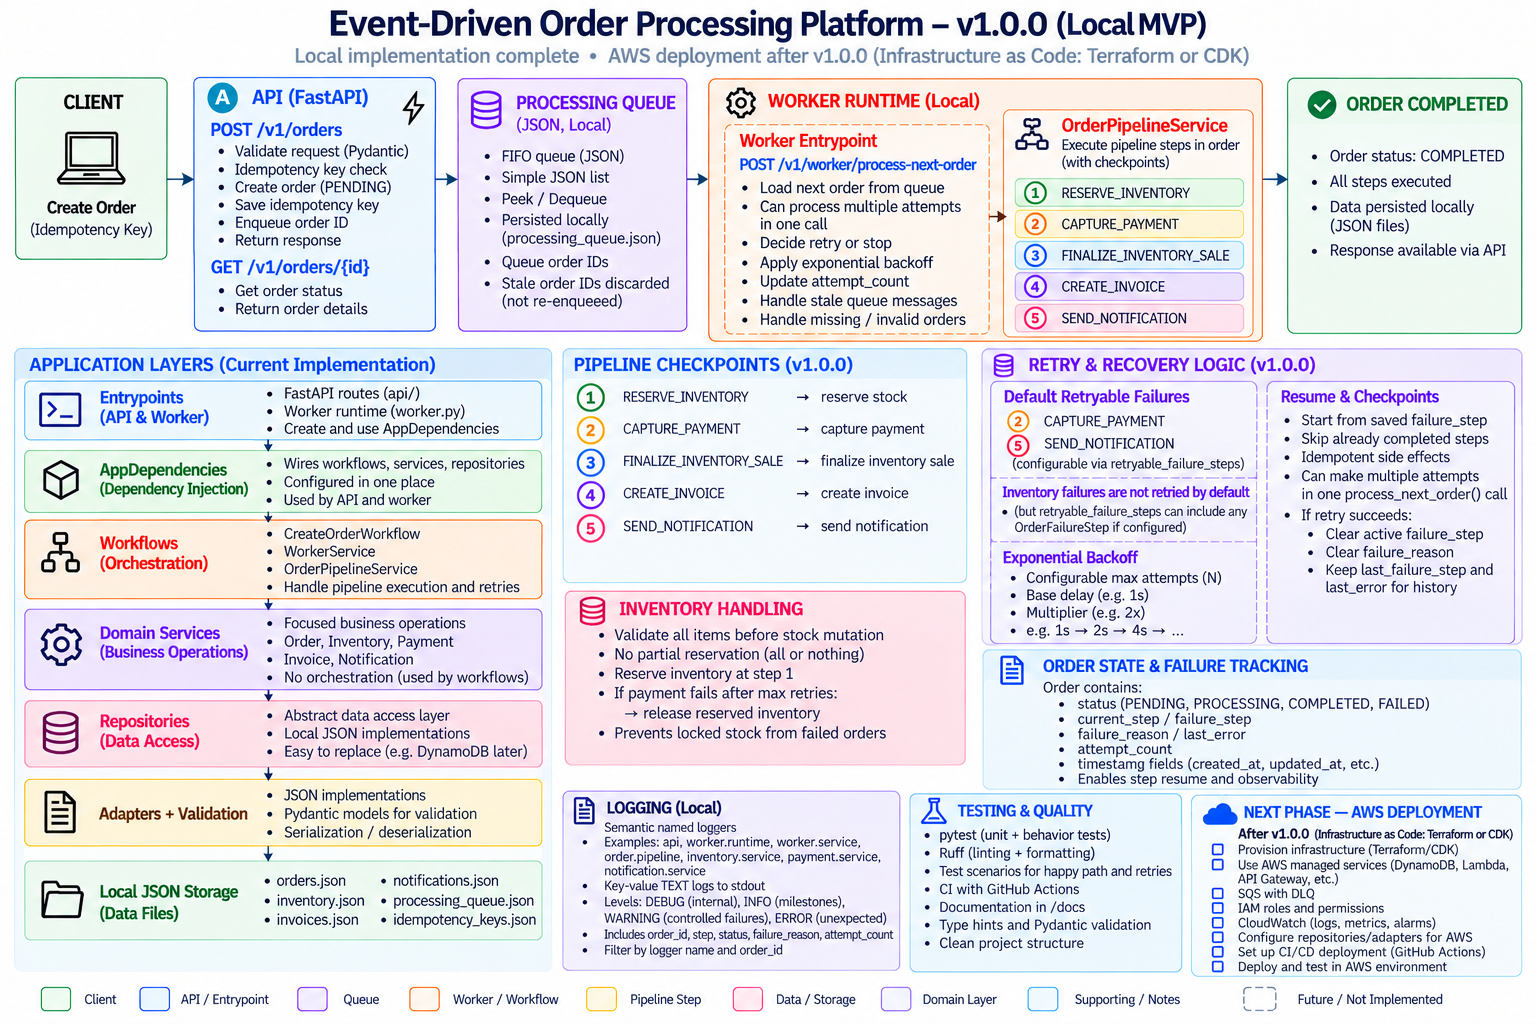
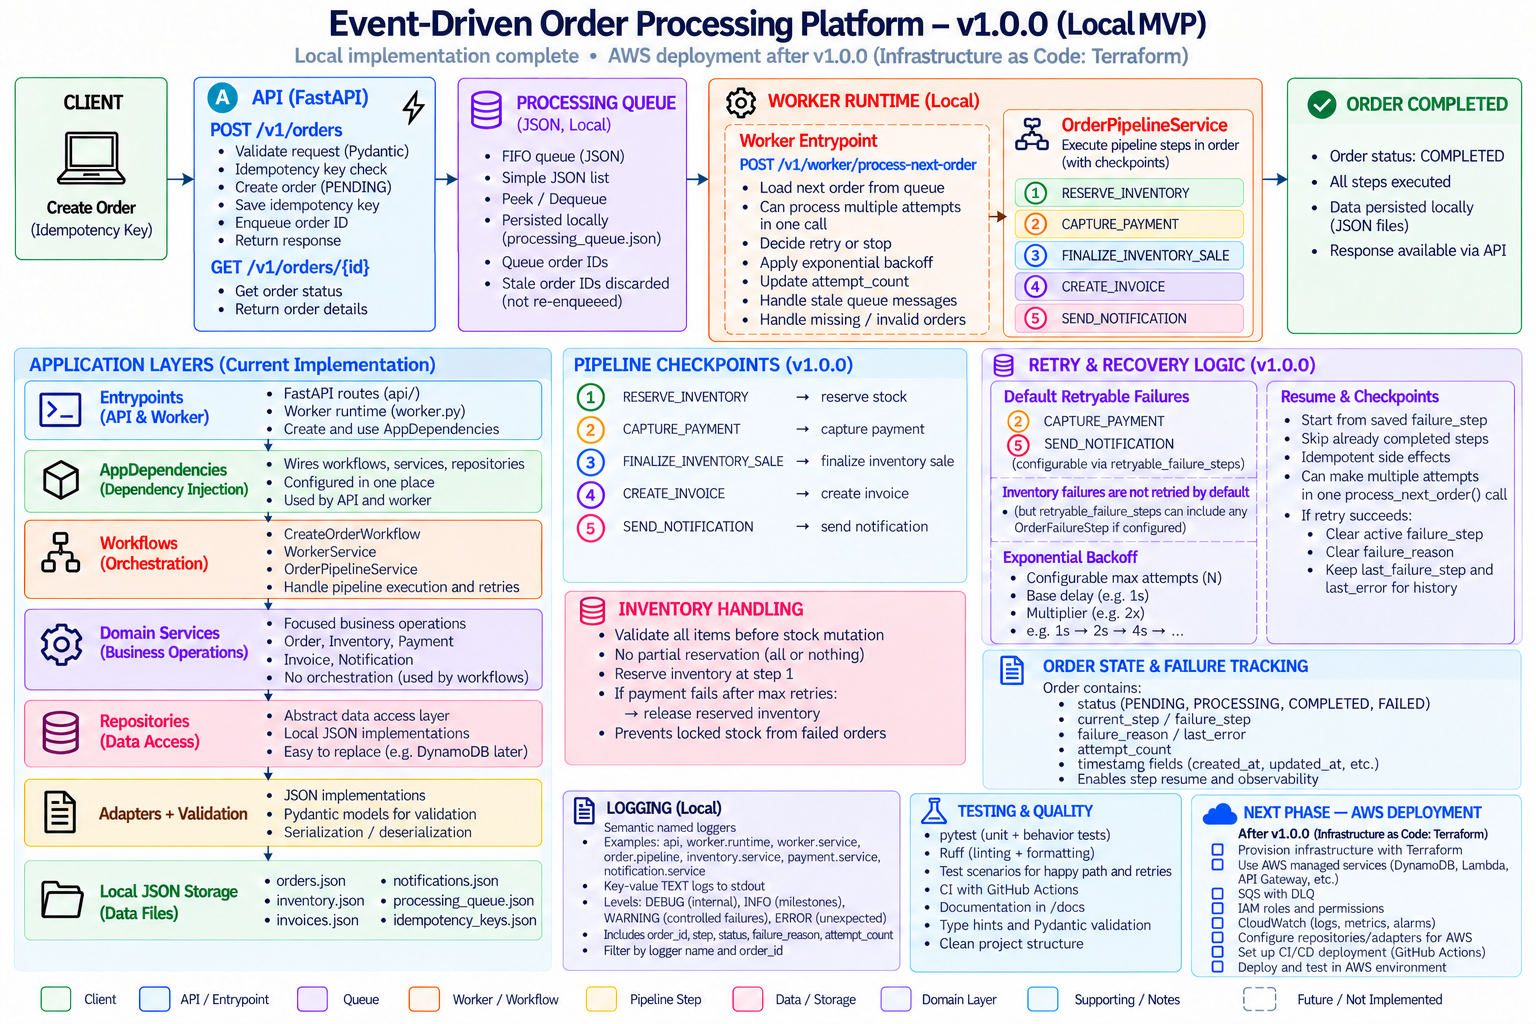
docs: define AWS platform roadmap

diff --git a/docs/roadmap.md b/docs/roadmap.md
@@ -1,0 +1,67 @@
+# Project Roadmap
+
+The project is developed in phases. Each phase builds on a working result from
+the previous phase instead of introducing every cloud concern at once.
+
+## Phase 1 — Local MVP
+
+Status: completed at `v1.0.0`.
+
+Build and verify the order API, worker, pipeline, persistence, retries,
+checkpoints, tests, and documentation locally.
+
+## Phase 2 — AWS Serverless MVP
+
+Provision the infrastructure with Terraform and modify the application to run
+against AWS services. The local implementation remains available for
+development and testing.
+
+| Version | Goal |
+| --- | --- |
+| `v1.1.0` | Terraform foundation, IAM, test Lambda, deployment packaging, and CloudWatch Logs |
+| `v1.2.0` | DynamoDB repositories for orders and idempotency |
+| `v1.3.0` | SQS, DLQ, and the AWS queue adapter |
+| `v1.4.0` | API Gateway and API Lambda publishing orders to SQS |
+| `v1.5.0` | Worker Lambda consuming SQS and executing the existing pipeline |
+| `v1.6.0` | AWS-backed inventory, invoices, and notifications |
+| `v1.7.0` | Integration tests, alarms, dashboards, security, and reliability hardening |
+| `v2.0.0` | Complete and documented AWS serverless deployment |
+
+Dependency order:
+
+```text
+Terraform
+-> DynamoDB
+-> SQS/DLQ
+-> API Lambda
+-> worker Lambda
+-> remaining AWS adapters
+-> integration and reliability hardening
+```
+
+## Phase 3 — Events and Operations
+
+Add EventBridge domain events, an operations consumer, operational aggregates,
+the `/v1/ops/summary` endpoint, metrics, and alarms.
+
+## Phase 4 — Delivery and Infrastructure Hardening
+
+Add reusable Terraform module boundaries, separate development and production
+environments, GitHub Actions deployment, production approval, rollback
+strategy, and further security hardening.
+
+## Phase 5+ — Advanced Evolution
+
+Consider Step Functions, ECS Fargate, an RDS reporting model, OpenSearch, WAF,
+disaster recovery, and advanced scaling only after the core AWS platform is
+working and observable.
+
+Overall progression:
+
+```text
+local system
+-> working AWS system
+-> observable event-driven system
+-> production-quality delivery
+-> optional advanced architecture
+```

diff --git a/docs/concepts/storage-model.md b/docs/concepts/storage-model.md
@@ -32,34 +32,27 @@ When the API and worker run separately, they do not share memory. That is why th
 ## Current Ownership
 
 ```text
-order_service.py        orders
-idempotency_service.py  idempotency keys
-queue_service.py        processing queue
-inventory_service.py    inventory
-invoice_service.py      invoices
-notification_service.py notifications
+business service
+-> domain repository
+-> JSON adapter
+-> json_storage
+-> data/*.json
 ```
 
-## Future Direction
+This boundary is implemented for orders, idempotency keys, the processing
+queue, inventory, invoices, and notifications.
 
-The future direction is:
+## Current Direction
+
+Business behavior works with validated Pydantic objects while adapters own
+serialization and validation at the JSON storage edge:
 
 ```text
-business logic
--> repository
--> adapter
--> storage backend
+service -> repository -> JSON adapter -> JSON storage
 ```
 
-But this should be added gradually.
-
-First useful slice is probably orders:
-
-```text
-Order service -> Order repository -> JSON adapter
-```
-
-Later backends could be:
+The AWS phase can replace JSON adapters with infrastructure-specific adapters
+without moving storage mechanics back into services. Candidate backends are:
 
 ```text
 in-memory
@@ -70,16 +63,18 @@ DynamoDB
 ## Rules For Now
 
 - Do not go back to shared in-memory state for API + worker mode.
-- Do not rewrite all storage at once.
-- Prove repository/adapter on one slice first.
+- Keep business decisions out of repositories and adapters.
+- Replace infrastructure one domain slice at a time during AWS migration.
 - Keep JSON storage as a local learning/persistence layer, not production storage.
 
 ## AWS Mapping
 
 ```text
-orders JSON       -> DynamoDB
-idempotency JSON  -> DynamoDB
-queue JSON        -> SQS
-inventory JSON    -> DynamoDB
-stdout logs       -> CloudWatch
+orders JSON        -> DynamoDB
+idempotency JSON   -> DynamoDB
+queue JSON         -> SQS
+inventory JSON     -> DynamoDB
+invoices JSON      -> S3 / DynamoDB metadata
+notifications JSON -> SNS / notification tracking
+stdout logs        -> CloudWatch
 ```

diff --git a/docs/concepts/worker-model.md b/docs/concepts/worker-model.md
@@ -23,7 +23,7 @@ This is useful for local debugging because one queued order can be processed on 
 Standalone worker process:
 
 ```text
-make run-worker
+make worker
 ```
 
 This is closer to the future AWS worker model.
@@ -32,9 +32,10 @@ This is closer to the future AWS worker model.
 
 ```text
 queue contains order_id
--> worker dequeues order_id
--> worker calls order_pipeline_service.process_order(order_id)
--> pipeline updates order state
+-> worker peeks at the first order_id
+-> worker calls OrderPipelineService for one processing attempt
+-> worker retries configured failures with local blocking backoff
+-> worker dequeues after success, stale work, non-retryable failure, or exhaustion
 ```
 
 ## Main Realization
@@ -48,28 +49,26 @@ That is why the local project uses JSON persistence for shared state.
 ## Main Files
 
 ```text
-app/services/worker_service.py          dequeue one order and call pipeline
+app/workflows/worker_service.py         queue decisions, retries, and outcomes
 app/workers/order_worker.py             standalone worker runtime loop
 app/services/queue_service.py           queue storage
-app/services/order_pipeline_service.py  order processing workflow
+app/workflows/order_pipeline_service.py one pipeline attempt and checkpoints
 ```
 
 ## Rules For Now
 
-- `worker_service.py` should stay focused on dequeueing one order and calling the pipeline.
+- `worker_service.py` should own queue decisions, retries, backoff, and terminal outcomes.
+- `order_pipeline_service.py` should own one processing attempt and ordered business steps.
 - `order_worker.py` should own the standalone worker loop.
 - The worker should not create orders.
 - The worker should not know API request details.
 - Empty queue handling should be clean and explicit.
 
-## Future Work
+## Current Reliability Boundary
 
 ```text
-stale queue handling
-retry attempts
-backoff
-DLQ
-queue message model instead of plain order_id
+implemented locally: stale-message handling, retry attempts, blocking backoff
+deferred to AWS: visibility timeout, redelivery, DLQ, message metadata
 ```
 
 ## AWS Mapping

diff --git a/README.md b/README.md
@@ -20,7 +20,8 @@ The project progression is documented in [docs/version_history.md](docs/version_
 
 Current completed version: `v1.0.0`
 
-Next planned work: begin the AWS/platform phase.
+Next planned release: `v1.1.0` — Terraform foundation, IAM, a test Lambda,
+deployment packaging, and CloudWatch Logs.
 
 The current local version includes:
 
@@ -28,9 +29,9 @@ The current local version includes:
 - idempotent order creation with `Idempotency-Key`
 - local processing queue
 - manual worker processing endpoint
-- standalone worker process experiment
+- standalone worker runtime
 - JSON-backed local persistence
-- structured local logging for API, worker, queue, and pipeline services
+- semantic key-value text logging for API, worker, queue, and pipeline services
 - environment-based settings with safe defaults in `.env.example`
 - workflow orchestration for worker and order processing
 - cleaner service boundaries for order storage, idempotency, queue, inventory, invoices, notifications, and payment
@@ -177,6 +178,7 @@ data/notifications.json
 
 Architecture and concept docs:
 
+- [Project roadmap](docs/roadmap.md)
 - [Architecture](docs/architecture.md)
 - [Order processing flow](docs/concepts/order-processing-flow.md)
 - [Worker model](docs/concepts/worker-model.md)

diff --git a/docs/concepts/repository-adapter.md b/docs/concepts/repository-adapter.md
@@ -38,7 +38,7 @@ order business logic
 
 ## Pydantic Object Boundary
 
-The app is moving toward keeping validated Pydantic objects at service and storage boundaries.
+The app keeps validated Pydantic objects at service and storage boundaries.
 
 That means the adapter owns conversion at the storage edge:
 
@@ -73,4 +73,6 @@ For now:
 - retry/backoff exists only for the current local payment and notification flow
 - SQS redelivery and DLQ behavior remain AWS-phase work
 
-The goal is to keep business behavior separated from storage mechanics while adding reliability features one slice at a time.
+The established local boundary keeps business behavior separated from storage
+mechanics. The AWS phase should preserve that boundary while replacing JSON
+adapters one infrastructure slice at a time.

diff --git a/docs/architecture.md b/docs/architecture.md
@@ -105,9 +105,9 @@ The goal is for business logic to work with validated Pydantic objects while ada
 | Notification records | SNS / notification tracking |
 | stdout logs | CloudWatch Logs |
 
-## Direction
+## Completed Local Direction
 
-The current direction is:
+The local MVP progressed through:
 
 ```text
 contracts
@@ -116,8 +116,11 @@ contracts
 -> retry / backoff
 -> behavior-focused tests
 -> cleanup / layer responsibility documentation
--> AWS infrastructure
 ```
+
+The current direction is the AWS serverless MVP. Terraform begins with the
+first AWS slice, while the local workflow and dependency boundaries remain the
+baseline for Lambda and managed-service adapters.
 
 ## Related Docs
 

diff --git a/docs/version_history.md b/docs/version_history.md
@@ -903,6 +903,8 @@ managed AWS services.
 
 ## Next Phase
 
-The next phase is AWS/platform work using API Gateway, Lambda, DynamoDB,
-SQS/DLQ, CloudWatch, IAM, CI/CD, and infrastructure as code. No AWS release
-version has been assigned yet.
+The next phase starts at `v1.1.0` with a Terraform foundation, IAM, a test
+Lambda, deployment packaging, and CloudWatch Logs. Later releases incrementally
+introduce DynamoDB, SQS/DLQ, API Gateway, the API and worker Lambdas, and the
+remaining AWS-backed adapters. The complete plan is documented in
+[roadmap.md](roadmap.md).

diff --git a/docs/concepts/order-processing-flow.md b/docs/concepts/order-processing-flow.md
@@ -30,7 +30,7 @@ app/api/main.py                       API layer
 app/services/order_service.py          order records
 app/services/idempotency_service.py    idempotency keys
 app/services/queue_service.py          queue storage
-app/workflows/worker_service.py        dequeue one order
+app/workflows/worker_service.py        queue decisions, retries, and outcomes
 app/workflows/order_pipeline_service.py processing workflow
 ```
 
